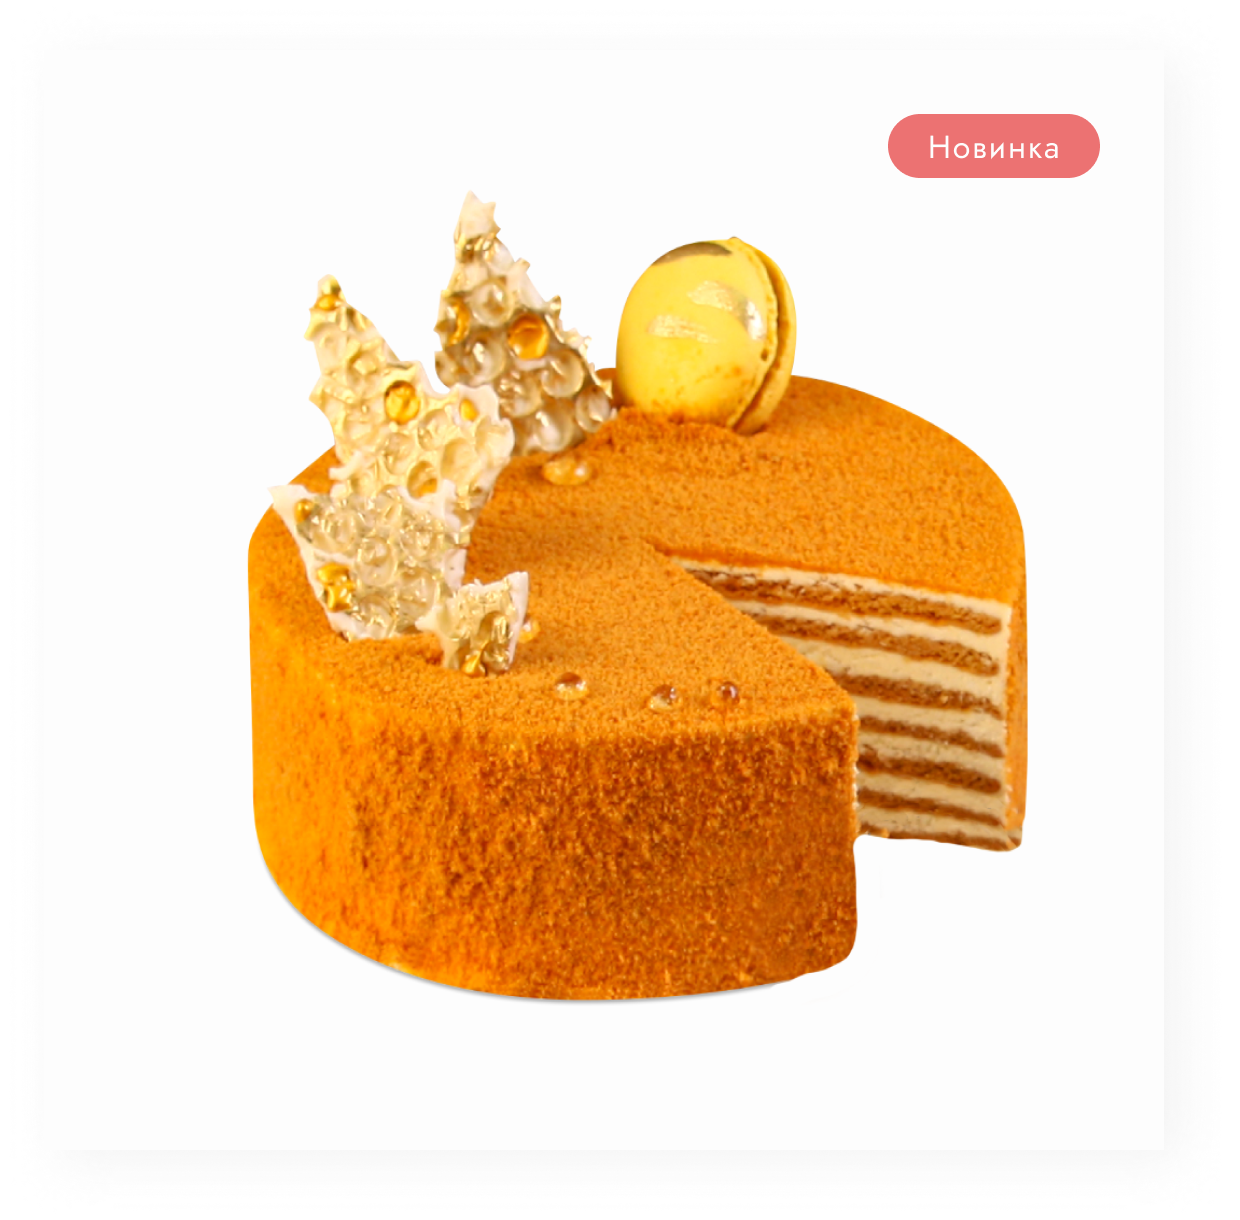
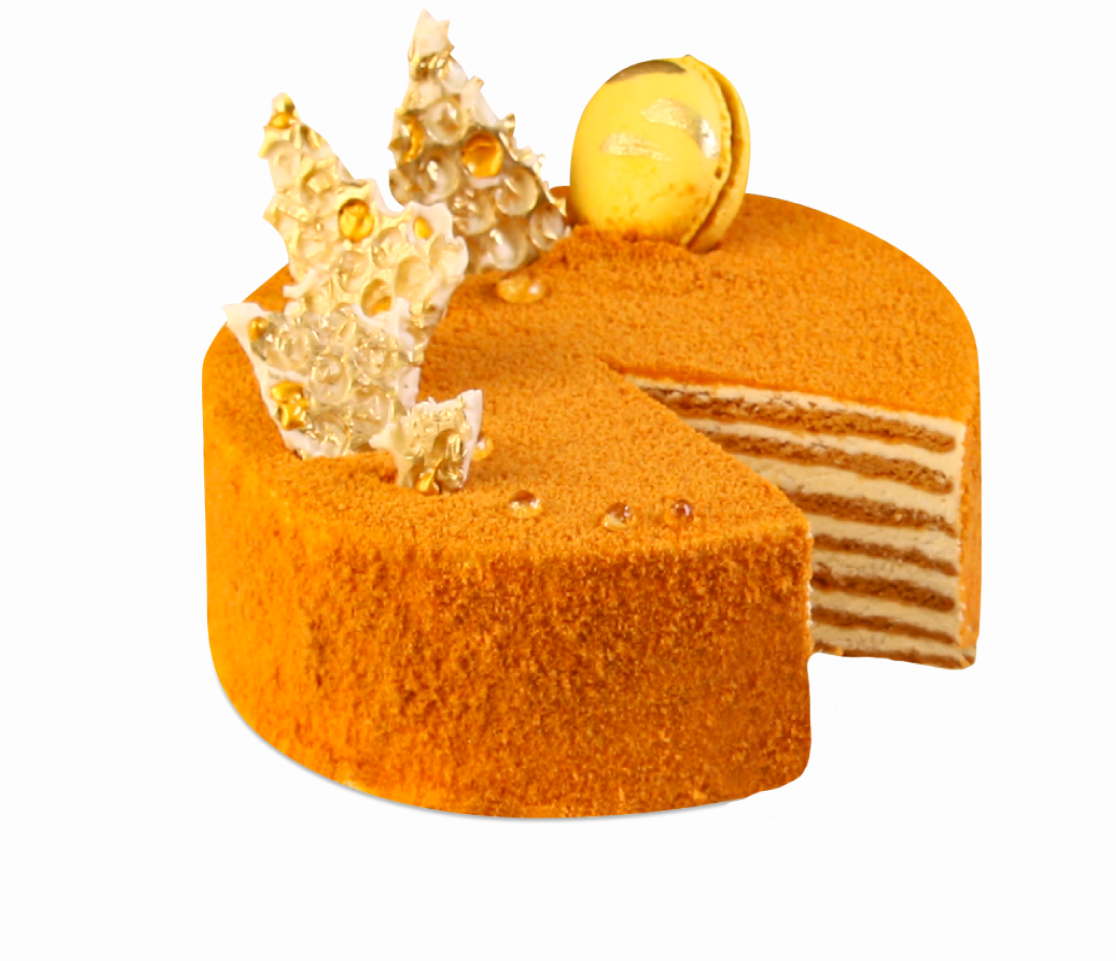
Review changes

diff --git a/src/app/shared/components/product/product.component.html b/src/app/shared/components/product/product.component.html
@@ -1,36 +1,35 @@
 <div class="product">
   <div class="product__container container">
     <div class="product__content">
-      <div class="product__content-photo">
-        <img src="/assets/images/product/product-photo-1@1x.png" alt="Продукт">
-        <span class="product__title-text">Другие фото этой работы</span>
-        <div class="product__content-slider">
-
+      <div class="product__gallery">
+        <div class="product__gallery-new">Новинка</div>
+        <img class="product__gallery-main" src="/assets/images/product/product-photo-1@1x.png" alt="Продукт">
+        <span class="product__gallery-title">Другие фото этой работы</span>
+        <div class="product__gallery-slider">
+          <app-product-gallery></app-product-gallery>
         </div>
       </div>
-      <div class="product__content-features">
+      <div class="product__info">
         <h2 class="product__title">Медовик</h2>
-        <div class="product__text-wrapper _margin_top_24_px">
-          <span class="product__text">Следует отметить, что дальнейшее развитие различных форм деятельности позволяет выполнить важные </span>
-        </div>
-        <div class="product__text-wrapper">
-          <span class="product__title-text">Вес</span>
-          <span class="product__text">от 1кг</span>
-        </div>
-        <div class="product__text-wrapper">
-          <span class="product__title-text">Срок изготовления:</span>
-          <span class="product__text">2 дня</span>
-        </div>
-        <div class="product__text-wrapper">
-          <span class="product__title-text">Варианты начинок:</span><br>
-          <span class="product__text">«Пралине», «Ваниль», «Орехово-шоколадная», «Клубника»</span>
-        </div>
-        <div class="product__text-wrapper _margin_top_32_px">
+        <p class="product__description _margin_top_24_px">Следует отметить, что дальнейшее развитие различных форм деятельности позволяет выполнить важные </p>
+        <p class="product__description-wrapper">
+          <span class="product__paragraph">Вес: </span>
+          <span class="product__description">от 1кг</span>
+        </p>
+        <p class="product__description-wrapper">
+          <span class="product__paragraph">Срок изготовления: </span>
+          <span class="product__description">2 дня</span>
+        </p>
+        <p class="product__description-wrapper">
+          <span class="product__paragraph">Варианты начинок: </span><br>
+          <span class="product__description">«Пралине», «Ваниль», «Орехово-шоколадная», «Клубника»</span>
+        </p>
+        <p class="product__description-wrapper _margin_top_32_px">
           <span class="product__title">1 350 ₽/кг*</span>
-        </div>
-        <div class="product__text-wrapper">
-          <span class="product__text">*сноска об изменении цены</span>
-        </div>
+        </p>
+        <p class="product__description-wrapper">
+          <span class="product__description">*сноска об изменении цены</span>
+        </p>
         <button
           type="submit"
           class="product-btn btn _black"
@@ -42,14 +41,14 @@
     <div class="product__desc">
       <h2 class="product__desc-title">Дополнительная информация</h2>
       <div class="product__desc-wrapper">
-        <div class="product__desc-section _margin_right_40_px">
-          <div class="product__desc-headline">Состав</div>
-          <span class="product__text">Высокий уровень вовлечения представителей целевой аудитории является четким доказательством простого факта: экономическая повестка сегодняшнего дня не даёт нам иного выбора, кроме определения.</span>
+        <div class="product__desc-section">
+          <h3 class="product__desc-headline">Состав</h3>
+          <span class="product__description">Высокий уровень вовлечения представителей целевой аудитории является четким доказательством простого факта: экономическая повестка сегодняшнего дня не даёт нам иного выбора, кроме определения.</span>
         </div>
         <div class="product__desc-section">
-          <div class="product__desc-headline">Пищевая и энергетическая ценность (100 г.)</div>
-          <span class="product__text">белки - 5,1г, жиры - 33,7г, углеводы - 46,4г</span>
-          <div class="product__title-text _margin_top_8_px">497 ккал;</div>
+          <h3 class="product__desc-headline">Пищевая и энергетическая ценность (100 г.)</h3>
+          <p class="product__description">белки - 5,1г, жиры - 33,7г, углеводы - 46,4г</p>
+          <p class="product__description _margin_top_8_px">497 ккал;</p>
         </div>
       </div>
     </div>

diff --git a/src/app/shared/components/product/product.component.scss b/src/app/shared/components/product/product.component.scss
@@ -1,8 +1,8 @@
 @import "typography";
-
+@import "grid";
 .product {
   &__container {
-    padding-top: 124px;
+    padding: 124px 0 184px 0;
   }
 
   &__content {
@@ -10,22 +10,54 @@
     flex-direction: row;
   }
 
-  &__content-photo {
+  &__gallery {
+    position: relative;
     display: flex;
     flex-direction: column;
     align-items: center;
+
+    &-new {
+      position: absolute;
+      top: 32px;
+      left: 422px;
+      width: 106px;
+      height: 32px;
+      text-align: center;
+      padding: 6px 0;
+      @include button2regular;
+      background-color: $lightRed;
+      color: $white;
+      border-radius: 26px;
+    }
+
+    &-main {
+      max-width: 560px;
+      box-shadow: 8px 5px 30px rgba(229, 229, 229, 0.43);
+    }
+
+    &-title {
+      @include body3semibold;
+      margin: 25px 12px 0 0;
+    }
+
+    &-slider {
+      margin-top: 20px;
+    }
+  }
+
+  &__info {
+    margin-left: 40px;
+  }
+
+  &__paragraph {
+    @include body3semibold;
   }
 
   &__title {
     @include heading2;
   }
 
-  &__title-text {
-    @include body3semibold;
-    margin-right: 12px;
-  }
-
-  &__text {
+  &__description {
     @include body3regular;
 
     &-wrapper {
@@ -40,16 +72,16 @@
   }
 
   &__desc {
-    margin: 104px 0 184px 0;
+    margin-top: 104px;
 
     &-wrapper {
       display: flex;
-      flex-direction: row;
+      justify-content: space-between;
       margin-top: 60px;
     }
 
     &-section {
-      width: 50%;
+      @include colWidth(6);
     }
 
     &-title {
@@ -74,8 +106,4 @@
 
 ._margin_top_8_px {
   margin-top: 8px;
-}
-
-._margin_right_40_px {
-  margin-right: 40px;
 }

diff --git a/src/app/shared/components/product-gallery/product-gallery.component.scss b/src/app/shared/components/product-gallery/product-gallery.component.scss
@@ -1,0 +1,56 @@
+@import "colors";
+
+.gallery {
+  display: flex;
+  flex-direction: row;
+  align-items: center;
+
+  &-items {
+    display: flex;
+    flex-direction: row;
+    justify-content: space-evenly;
+    width: 356px;
+  }
+
+  &-item {
+    max-width: 86px;
+    border-radius: 4px;
+
+    &_selected {
+      border: 1px solid $green;
+    }
+  }
+
+  &-arrow {
+    width: 40px;
+    height: 40px;
+    border-radius: 50px;
+    margin-left: 25px;
+    background-image: url("/assets/images/product/product-arrow.svg");
+    background-repeat: no-repeat;
+    background-position: center center;
+
+    &_left {
+      transform: rotate(-0deg);
+      margin-left: 0;
+      margin-right: 25px;
+
+      &:hover {
+        transform: rotate(-180deg);
+      }
+    }
+
+    &_right {
+      transform: rotate(-180deg);
+
+      &:hover {
+        transform: rotate(-0deg);
+      }
+    }
+
+    &:hover {
+      background-image: url("/assets/images/product/product-arrow-hover.svg");
+      background-color: $lightRed;
+    }
+  }
+}

diff --git a/src/app/shared/shared.module.ts b/src/app/shared/shared.module.ts
@@ -8,6 +8,7 @@ import { GalleryComponent } from 'src/app/shared/components/gallery/gallery.comp
 import { HeaderComponent } from 'src/app/shared/components/header/header.component';
 import { SocialBlockComponent } from "./components/social-block/social-block.component";
 import { ProductComponent } from "./components/product/product.component";
+import {ProductGalleryComponent} from "./components/product-gallery/product-gallery.component";
 
 @NgModule({
   imports: [
@@ -21,7 +22,8 @@ import { ProductComponent } from "./components/product/product.component";
     ReviewCardComponent,
     GalleryComponent,
     SocialBlockComponent,
-    ProductComponent
+    ProductComponent,
+    ProductGalleryComponent
   ],
   exports: [
     HeaderComponent,

diff --git a/src/app/shared/components/product-gallery/product-gallery.component.html b/src/app/shared/components/product-gallery/product-gallery.component.html
@@ -1,0 +1,12 @@
+<div class="gallery">
+  <div class="gallery-arrow gallery-arrow_left">
+  </div>
+  <div class="gallery-items">
+    <img class="gallery-item gallery-item_selected" src="/assets/images/product/product-lite-photo-1@1x.png" alt="Торт">
+    <img class="gallery-item" src="/assets/images/product/product-lite-photo-2@1x.png" alt="Торт">
+    <img class="gallery-item" src="/assets/images/product/product-lite-photo-3@1x.png" alt="Торт">
+    <img class="gallery-item" src="/assets/images/product/product-lite-photo-4@1x.png" alt="Торт">
+  </div>
+  <div class="gallery-arrow gallery-arrow_right">
+  </div>
+</div>

diff --git a/src/app/shared/components/product-gallery/product-gallery.component.ts b/src/app/shared/components/product-gallery/product-gallery.component.ts
@@ -1,0 +1,10 @@
+import { Component } from '@angular/core';
+
+@Component({
+  selector: 'app-product-gallery',
+  templateUrl: './product-gallery.component.html',
+  styleUrls: ['./product-gallery.component.scss']
+})
+export class ProductGalleryComponent {
+
+}

diff --git a/src/app/pages/product/product.component.scss b/src/app/pages/product/product.component.scss
@@ -3,7 +3,7 @@
   background-image:
     url('/assets/images/product/product-bg-line.svg');
   background-repeat: no-repeat;
-  background-size: 950px;
+  background-size: 1025px;
   background-position: left top;
   margin-top: 50px;
 }
